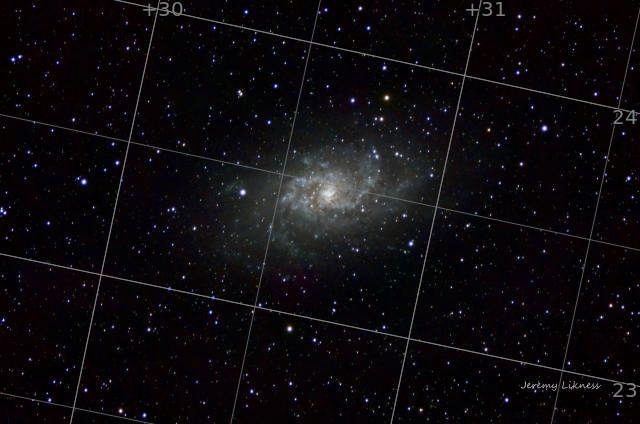
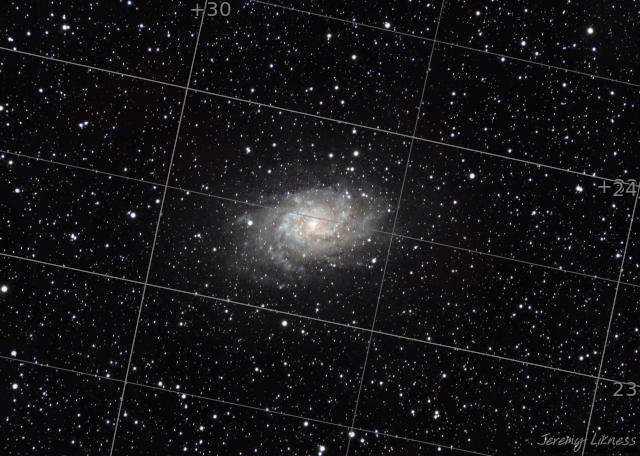
new processing

Changed region(s): [[0.0, 0.0, 1.0, 1.0], [0.375, 0.9811, 0.4062, 1.0], [0.125, 0.0, 0.1562, 0.0307]]

diff --git a/_layouts/tagpage.html b/_layouts/tagpage.html
@@ -15,7 +15,7 @@ layout: default
             {% assign itemCount = 0 %}
             {% assign itemIndex = 1 %}
             {% for item in subitems %}        
-            {% assign itemTags = item.tags | join: "~~~" | downcase %}
+            {% assign itemTags = item.tags | join: "~~~" | downcase | split: "~~~" %}
             {% if itemTags contains tag %}
                 {% assign itemCount = itemCount | plus: 1 %}
                 {% assign mainUrl = site.baseurl | append: item.url %}

diff --git a/_gallery/sadr2.md b/_gallery/sadr2.md
@@ -1,0 +1,22 @@
+---
+title: "The Sadr Region Take Two"
+type: Nebula
+tags: ["37 Cyg","NGC6910","The star Sadr (γ Cyg)"]
+description: he Sadr region is the name of the nebulosity that surrounds the brilliant center star of Cygnus' cross. Here, the massive supergiant estimated to contain over 10 times the mass the sun in a radius 150 times as wide glows triumphantly in the center of the frame. I used a new technique to bring out new detail from an old capture.
+image: /assets/images/gallery/sadr2/thumb.jpg
+telescope: Svbony sv503 70ED
+length: "336mm"
+aperture: "70mm"
+group: sadr
+folder: sadr2
+exposure: 180   
+lights: 100
+sessions: 1
+firstCapture: 2022-09-30 
+lastCapture:
+ra: "20h 22m 18.9s"
+dec: "+40° 16' 33.188"
+size: "132.015 x 132.363 arcmin"
+radius: "1.558 deg"
+scale: "1.9 arcsec/pixel"
+---

diff --git a/_gallery/redlagoon.md b/_gallery/redlagoon.md
@@ -1,0 +1,23 @@
+---
+title: "The Red Lagoon"
+type: Nebula
+tags: ["Lagoon Nebula","M20","M8","NGC6514","NGC6523","NGC6526","NGC6530","The star 4 Sgr","The star 5 Sgr","The star 7 Sgr","The star 9 Sgr","Trifid Nebula"]
+description: A wide angle shot to capture the nebulosity that links the Lagoon Nebula with its nearby companion the Trifid Nebula.
+image: /assets/images/gallery/redlagoon/thumb.jpg
+telescope: Svbony sv503 70ED
+length: "336mm"
+aperture: "70mm"
+folder: redlagoon
+group: m8
+exposure: 30
+lights: 258
+sessions: 1
+group: m8
+firstCapture: 2022-08-16
+lastCapture:
+ra: "18h 2m 51.1s"
+dec: "-23° 53' 52.229"
+size: "162.072 x 111.184 arcmin"
+radius: "1.638 deg"
+scale: "2.851 arcsec/pixel"
+---

diff --git a/_gallery/monkeyhead.md b/_gallery/monkeyhead.md
@@ -1,0 +1,22 @@
+---
+title: "Monkeyhead"
+type: Nebula
+tags: ["Monkey Head Nebula","NGC2174","NGC2175"]
+description: The Monkeyhead Nebula lies in the nebula-dense constellation of Orion. It is believed to be formed of dust, wind, and radiation caused by newborn stars.
+image: /assets/images/gallery/monkeyhead/thumb.jpg
+telescope: Celestron EdgeHD 9.25
+group: ngc2174
+length: "1650mm"
+aperture: "235mm"
+folder: monkeyhead
+exposure: 300
+lights: 32
+sessions: 1
+firstCapture: 2022-10-12
+lastCapture:
+ra: "6h 9m 36.5s"
+dec: "+20° 31' 54.659"
+size: "39.031 x 26.657 arcmin"
+radius: "0.394 deg"
+scale: "0.383 arcsec/pixel"
+---

diff --git a/_gallery/sa-m33.md b/_gallery/sa-m33.md
@@ -8,14 +8,15 @@ telescope: Svbony sv503 70ED
 length: "336mm"
 aperture: "70mm"
 folder: sa-m33
+group: m33
 exposure: 90
 lights: 53
 sessions: 1
 firstCapture: 2022-10-19 
 lastCapture:
-ra: "1h 33m 34.0s"
-dec: "+30° 38' 32.323"
-size: "122.345 x 80.969 arcmin"
-radius: "1.223 deg"
-scale: "1.388 arcsec/pixel"
+ra: "1h 33m 48.7s"
+dec: "+30° 41' 23.821"
+size: "166.193 x 118.322 arcmin"
+radius: "1.7 deg"
+scale: "2.428 arcsec/pixel"
 ---

diff --git a/_gallery/sadr.md b/_gallery/sadr.md
@@ -8,6 +8,7 @@ telescope: Svbony sv503 70ED
 length: "336mm"
 aperture: "70mm"
 folder: sadr
+group: sadr
 exposure: 180   
 lights: 100
 sessions: 1

diff --git a/_gallery/ngc2174-monkeyhead-nebula.md b/_gallery/ngc2174-monkeyhead-nebula.md
@@ -8,6 +8,7 @@ telescope: Stellina
 length: "400mm"
 aperture: "80mm"
 folder: ngc2174
+group: ngc2174
 exposure: 10    
 lights: 385
 sessions: 2

diff --git a/_tags/.md b/_tags/.md
@@ -1,0 +1,5 @@
+---
+title: 
+tagname: ""
+permalink: /tag/
+---
